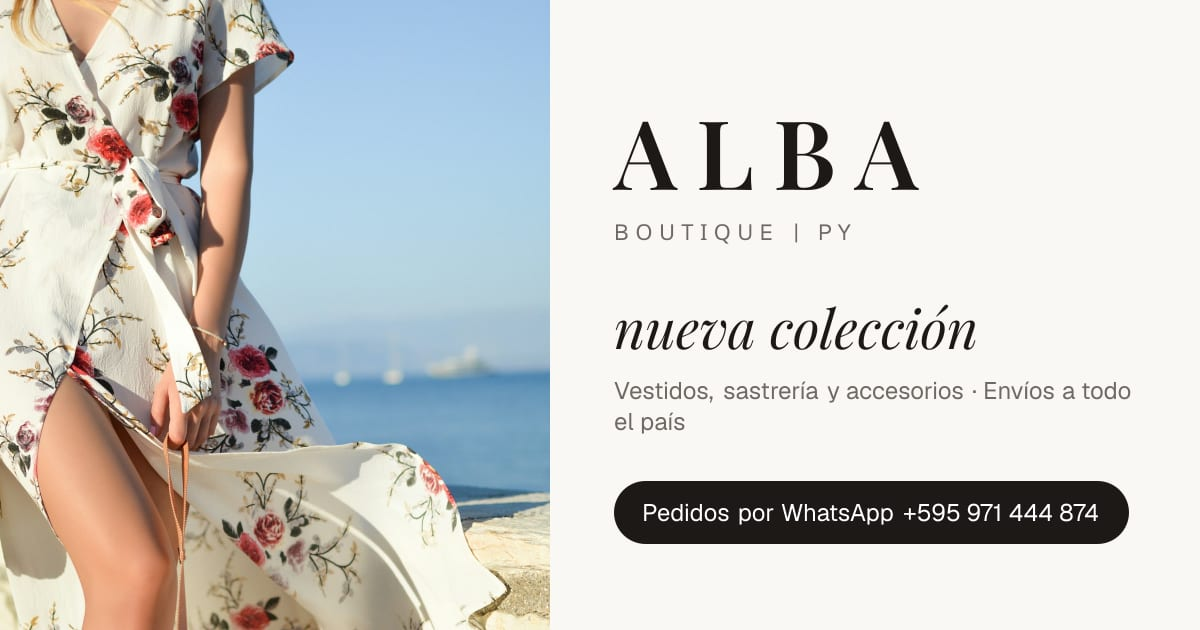
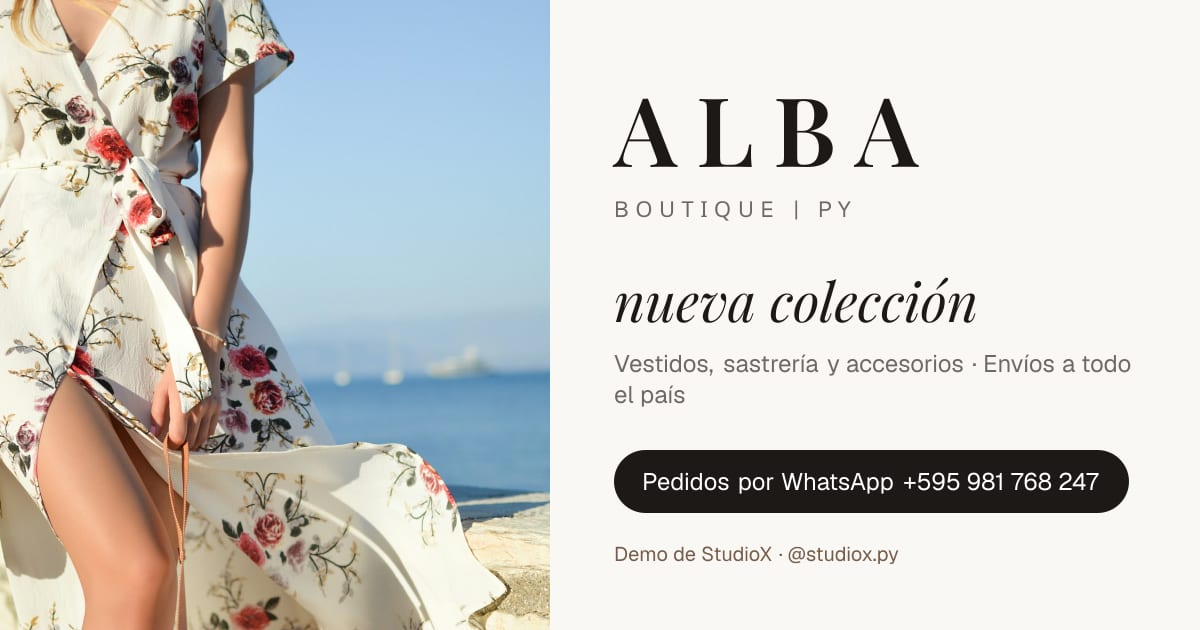
Demo de StudioX: pedidos al +595 981 768 247
- WhatsApp de pedidos y consultas: +595 981 768 247 (StudioX).
- Aviso 'Demo de StudioX' arriba de todo y crédito en el pie, con link
  a @studiox.py.
- El mensaje del pedido aclara que es una prueba desde la demo y los
  datos de pago se marcan como de ejemplo.
- Imagen para compartir con el número nuevo.

Changed region(s): [[0.4933, 0.4524, 0.9558, 0.9048], [0.4933, 0.1508, 0.7708, 0.3921], [0.5858, 0.1508, 0.6167, 0.2111]]

diff --git a/src/lib/site.ts b/src/lib/site.ts
@@ -7,9 +7,11 @@ export const site = {
   description:
     "Moda femenina de autor en lino, seda y algodón. Comprá online y coordiná tu pedido por WhatsApp. Envíos a todo Paraguay.",
   /** Número de WhatsApp en formato internacional, solo dígitos. */
-  whatsapp: "595971444874",
-  whatsappDisplay: "+595 971 444 874",
+  whatsapp: "595981768247",
+  whatsappDisplay: "+595 981 768 247",
   instagram: "albaboutique.py",
+  /** Esta tienda es una demo de StudioX: aviso arriba de todo y crédito en el pie de página. */
+  demo: { by: "StudioX", instagram: "studiox.py" },
   address: {
     street: "Av. España 1234",
     detail: "Villa Morra",
@@ -86,9 +88,9 @@ export const paymentDetails = {
     { label: "Titular", value: "Alba Boutique S.A." },
     { label: "RUC", value: "80000000-0" },
     { label: "Cuenta corriente", value: "0000000000" },
-    { label: "Alias", value: "0971444874" },
+    { label: "Alias", value: "0981000000" },
   ],
-  wallet: { label: "Número de billetera", value: "0971 444 874" },
+  wallet: { label: "Número de billetera", value: "0981 000 000" },
 } as const;
 
 export type PaymentKind = "transfer" | "wallet" | "on-delivery";

diff --git a/src/components/Header.tsx b/src/components/Header.tsx
@@ -8,6 +8,7 @@ import { bagDrawer } from "@/lib/bagDrawer";
 import { useCart } from "@/lib/cart";
 import { useFavorites } from "@/lib/favorites";
 import { site, whatsappLink } from "@/lib/site";
+import { DemoBanner } from "./DemoBanner";
 import { Logo } from "./Logo";
 import { menuSections, navLinks } from "./nav";
 import { WhatsAppIcon } from "./WhatsAppIcon";
@@ -34,6 +35,7 @@ export function Header() {
 
   return (
     <>
+      <DemoBanner />
       <p className="overflow-hidden bg-ink py-2 text-center label-caps-sm whitespace-nowrap text-white">
         <span className="tracking-[0.1em] sm:tracking-[0.25em]">
           Envíos a todo el país<span className="hidden sm:inline"> · {site.installments} cuotas sin interés</span> ·

diff --git a/src/components/Footer.tsx b/src/components/Footer.tsx
@@ -55,6 +55,19 @@ export function Footer() {
         <p>Medios de pago: {paymentMethods.map((m) => m.split(" (")[0]).join(" · ")}</p>
         <p>
           © {new Date().getFullYear()} {site.name} · Paraguay
+          {site.demo && (
+            <>
+              {" · "}
+              <a
+                className="link-editorial"
+                href={`https://www.instagram.com/${site.demo.instagram}/`}
+                target="_blank"
+                rel="noopener noreferrer"
+              >
+                Demo desarrollada por {site.demo.by} (@{site.demo.instagram})
+              </a>
+            </>
+          )}
         </p>
       </div>
     </footer>

diff --git a/src/components/DemoBanner.tsx b/src/components/DemoBanner.tsx
@@ -1,0 +1,16 @@
+import { site } from "@/lib/site";
+
+/** Aviso de que la tienda es una demo. Se quita borrando `site.demo`. */
+export function DemoBanner() {
+  if (!site.demo) return null;
+  return (
+    <a
+      href={`https://www.instagram.com/${site.demo.instagram}/`}
+      target="_blank"
+      rel="noopener noreferrer"
+      className="block bg-bronze py-1.5 text-center text-[11px] font-medium tracking-[0.08em] text-white hover:bg-ink"
+    >
+      Demo de {site.demo.by} · tienda de ejemplo <span className="opacity-80">· @{site.demo.instagram}</span>
+    </a>
+  );
+}

diff --git a/src/app/bolsa/PaymentInstructions.tsx b/src/app/bolsa/PaymentInstructions.tsx
@@ -44,6 +44,9 @@ export function PaymentInstructions({ method, total, orderId }: { method: string
           </div>
         ))}
       </dl>
+      {site.demo && (
+        <p className="mt-3 text-body-sm text-stone-text">Datos de pago de ejemplo: esta tienda es una demo.</p>
+      )}
       <p className="mt-3 rounded-xl bg-sand px-4 py-3 text-body-sm">
         Cuando pagues, enviá el comprobante por WhatsApp al {site.whatsappDisplay} y te confirmamos el envío.
       </p>

diff --git a/src/lib/order.ts b/src/lib/order.ts
@@ -52,6 +52,7 @@ export function buildOrderMessage(orderId: string, form: CheckoutForm, items: Re
   const rule = "──────────────";
 
   const lines = [
+    ...(site.demo ? [`(Pedido de prueba desde la demo de ${site.demo.by})`, ""] : []),
     `¡Hola! Quiero confirmar este pedido hecho desde la web de ${site.name}.`,
     "",
     `*Pedido ${orderId}*`,
